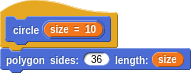
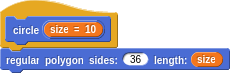
Not too smart

diff --git a/docs/intermediate.md b/docs/intermediate.md
@@ -2,13 +2,13 @@
 
 ## Abstraction
 
-One of the most important things in programming within any language is the ability to _abstract_. That is, the ability to create new compound constructs that are indistinguishable from the primitives. In this way you can extend the language; defining increasingly compounded things.
+One of the most important things in programming within any language is the ability to _abstract_. The ability to create new compound constructs that are indistinguishable from primitives gives one approach. In this way you can essentially extend the language; defining increasingly intricate things.
 
 In our Turtle Graphics language here, we have primitives such as `move`, `turn`, `repeat`, ... Let's make a `square` definition from what we created earlier.
 
 ![Square definition](media/square_def.png)
 
-We've even parameterized our new word with a size. This way we can _reach in_ and poke values into the defintion without cracking it open. More importantly, without having to know how it works at all. This is how you manage complexity as you make more and more intricate things. We can now use our `square` within a familiar pattern.
+We've even parameterized our new word with a size. This way we can _reach in_ and poke values into the defintion without cracking it open. More importantly, without having to know how it works inside. This is how you manage complexity as you make more and more intricate things. We can now use our `square` within a familiar pattern.
 
 ![Square pattern sketch](media/square_pattern_sketch.png)
 ![Square pattern sim](media/square_pattern_sim.png)
@@ -36,7 +36,7 @@ And, oh wait, we can now redefine `square` to be simply a `rectangle` with equal
 
 ![Square redefinition](media/square_redef.png)
 
-The pretty pattern we made with squares still works with this new definition of `square`. This is an important point. Any sketch using the definition shouldn't know or care how it works.
+The pretty pattern we made with squares still works with this new definition of `square`. This is an important point. Any sketch using the definition shouldn't know or care how it works. You should be free to change the _internals_ without breaking things.
 
 This idea of making rough sketches (so to speak) and then continually refactoring as you add abstractions and discover more succinct ways of describing what you want is one of the great joys of programming.
 
@@ -47,7 +47,7 @@ Let's play with some other shapes. We should be able to make a triangle the same
 ![Triangle oops sketch](media/triangle_oops_sketch.png)
 ![Triangle oops sim](media/triangle_oops_sim.png)
 
-Oops! I was thinking that the interior angles of an isosceles triangle is 60 degrees. Actually the turn angles in turtle geometry are the _exterior_ angles. We got lucky with the square, where both are 90 degrees. Trying again:
+Oops! I was thinking that the interior angles of an isosceles triangle is 60 degrees. Actually the turn angles in turtle geometry are the _exterior_ angles. We just got lucky with the square, where both are 90 degrees. Trying again:
 
 ![Triangle sketch](media/triangle_sketch.png)
 ![Triangle sim](media/triangle_sim.png)
@@ -58,7 +58,7 @@ And of course, we should bundle this up and give it a name.
 
 Does anything bother you yet about the definitions we've made so far? How is `triangle` different from `rectangle` or `square`? Why can't we use our `side` definition here?
 
-At the time, we were thinking only about shapes with right-angled corners and so we assumed that `side` with 90 degrees. It's more succinct to make our base definitions as general as possible and then, perhaps, define more specific and specialized things in terms of them.
+At the time, we were thinking only about shapes with right-angled corners and so we assumed `side` had 90 degree corners. It's more succinct to make our base definitions as general as possible and then, perhaps, define more specific and specialized things in terms of them.
 
 ![Side general def](media/side_general_def.png)
 
@@ -86,7 +86,7 @@ The difference is in the number of sides and the corner angles. A square is a _r
 ![Triangle polygon def](media/triangle_poly_def.png)
 ![Square polygon def](media/square_poly_def.png)
 
-Why not go ahead and define a `pentagon`, `hexagon`, ... even a `circle` can be approximated as we did earlier as a many sided polygon.
+Why not go ahead and define a `pentagon`, `hexagon`, etc. Even a `circle` can be approximated as we did earlier as a many sided polygon.
 
 ![Pentagon def](media/pentagon_def.png)
 ![Hexagon def](media/hexagon_def.png)
@@ -100,6 +100,13 @@ Why not go ahead and define a `pentagon`, `hexagon`, ... even a `circle` can be 
 There is still something about these definitions that should bother you! Why is it that `polygon` must know the number of `sides` **and** the `corner` angle to use? Isn't the angle always 1/side of the (360) way around?
 
 ![Polygon smart def](media/polygon_smart_def.png)
+
+Notice that we define `regular polygon` in terms of the more explicit `polygon`. While it's nice to not have to specify the `corner` angles, we don't want to lose the ability to make things such as five-sided polygons that are _not_ pentagons:
+
+![Star def](media/star_def.png)
+![Star sim](media/star_sim.png)
+
+This is yet another general principle. It is well and good to hide details to make things "simpler", but you don't want to lose capabilities in the process. Build layer atop layers, but without _forbidding_ access to the layers below.
 
 Now the various concrete polygons have less _internals_ of how things work embedded in them.
 
